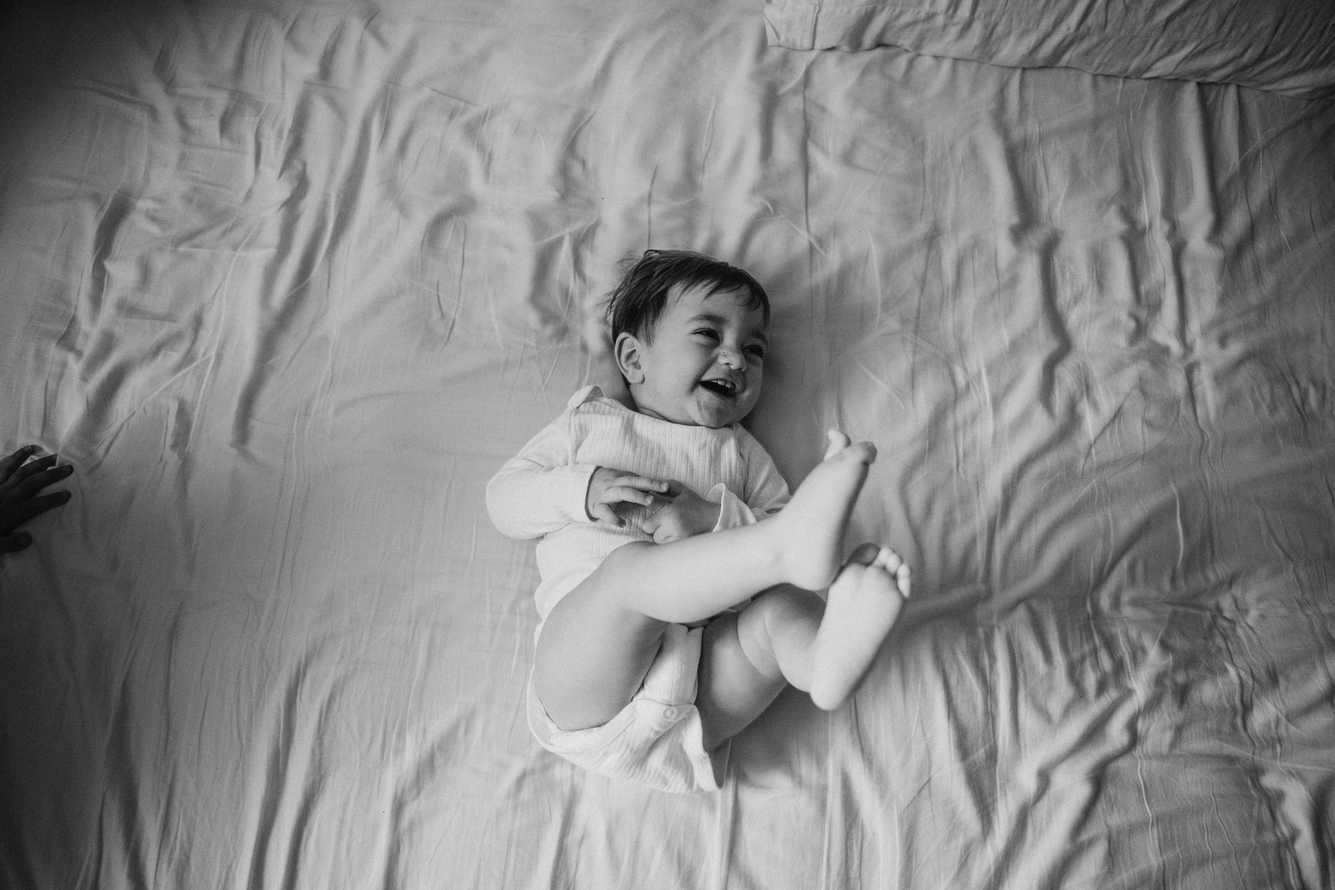
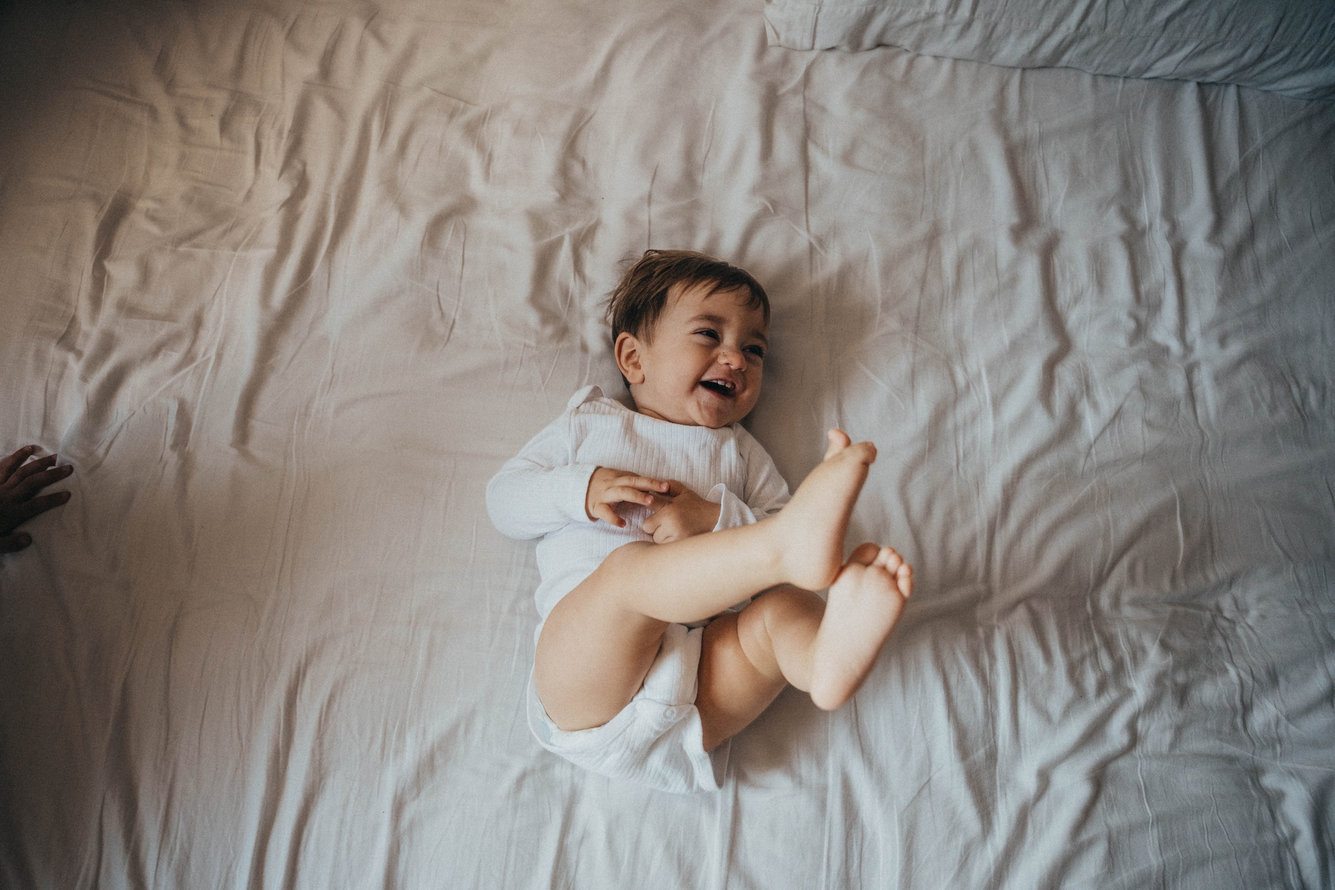
Pablo & Marco: el bebé en la cama, a color

diff --git a/en/film/homeless-world-cup-2019-uefa-s-respect-day/index.html b/en/film/homeless-world-cup-2019-uefa-s-respect-day/index.html
@@ -9,7 +9,7 @@
 
 <link rel="alternate" hreflang="es" href="/es/film/homeless-world-cup-2019-uefa-s-respect-day/">
 <link rel="preload" href="/assets/fonts/inter-tight-400.woff2" as="font" type="font/woff2" crossorigin>
-<link rel="stylesheet" href="/assets/css/style.css?v=1794506660392">
+<link rel="stylesheet" href="/assets/css/style.css?v=1794516519669">
 <script>try{var r=document.referrer,m=r&&r.indexOf(location.origin)===0?r.slice(location.origin.length):"";if(/^\/(es|en)\/(film|photo)\/[^\/]+\//.test(m))document.documentElement.classList.add("brand-done")}catch(e){}</script>
 </head>
 <body class="has-compact">

diff --git a/es/film/homeless-world-cup-2019-uefa-s-respect-day/index.html b/es/film/homeless-world-cup-2019-uefa-s-respect-day/index.html
@@ -9,7 +9,7 @@
 
 <link rel="alternate" hreflang="en" href="/en/film/homeless-world-cup-2019-uefa-s-respect-day/">
 <link rel="preload" href="/assets/fonts/inter-tight-400.woff2" as="font" type="font/woff2" crossorigin>
-<link rel="stylesheet" href="/assets/css/style.css?v=1794506660392">
+<link rel="stylesheet" href="/assets/css/style.css?v=1794516519669">
 <script>try{var r=document.referrer,m=r&&r.indexOf(location.origin)===0?r.slice(location.origin.length):"";if(/^\/(es|en)\/(film|photo)\/[^\/]+\//.test(m))document.documentElement.classList.add("brand-done")}catch(e){}</script>
 </head>
 <body class="has-compact">

diff --git a/en/film/homeless-world-cup-2017-dulce-s-story/index.html b/en/film/homeless-world-cup-2017-dulce-s-story/index.html
@@ -9,7 +9,7 @@
 
 <link rel="alternate" hreflang="es" href="/es/film/homeless-world-cup-2017-dulce-s-story/">
 <link rel="preload" href="/assets/fonts/inter-tight-400.woff2" as="font" type="font/woff2" crossorigin>
-<link rel="stylesheet" href="/assets/css/style.css?v=1794506660392">
+<link rel="stylesheet" href="/assets/css/style.css?v=1794516519669">
 <script>try{var r=document.referrer,m=r&&r.indexOf(location.origin)===0?r.slice(location.origin.length):"";if(/^\/(es|en)\/(film|photo)\/[^\/]+\//.test(m))document.documentElement.classList.add("brand-done")}catch(e){}</script>
 </head>
 <body class="has-compact">

diff --git a/es/film/homeless-world-cup-2017-dulce-s-story/index.html b/es/film/homeless-world-cup-2017-dulce-s-story/index.html
@@ -9,7 +9,7 @@
 
 <link rel="alternate" hreflang="en" href="/en/film/homeless-world-cup-2017-dulce-s-story/">
 <link rel="preload" href="/assets/fonts/inter-tight-400.woff2" as="font" type="font/woff2" crossorigin>
-<link rel="stylesheet" href="/assets/css/style.css?v=1794506660392">
+<link rel="stylesheet" href="/assets/css/style.css?v=1794516519669">
 <script>try{var r=document.referrer,m=r&&r.indexOf(location.origin)===0?r.slice(location.origin.length):"";if(/^\/(es|en)\/(film|photo)\/[^\/]+\//.test(m))document.documentElement.classList.add("brand-done")}catch(e){}</script>
 </head>
 <body class="has-compact">

diff --git a/en/film/street-soccer-india-s-experience/index.html b/en/film/street-soccer-india-s-experience/index.html
@@ -9,7 +9,7 @@
 
 <link rel="alternate" hreflang="es" href="/es/film/street-soccer-india-s-experience/">
 <link rel="preload" href="/assets/fonts/inter-tight-400.woff2" as="font" type="font/woff2" crossorigin>
-<link rel="stylesheet" href="/assets/css/style.css?v=1794506660392">
+<link rel="stylesheet" href="/assets/css/style.css?v=1794516519669">
 <script>try{var r=document.referrer,m=r&&r.indexOf(location.origin)===0?r.slice(location.origin.length):"";if(/^\/(es|en)\/(film|photo)\/[^\/]+\//.test(m))document.documentElement.classList.add("brand-done")}catch(e){}</script>
 </head>
 <body class="has-compact">

diff --git a/es/film/street-soccer-india-s-experience/index.html b/es/film/street-soccer-india-s-experience/index.html
@@ -9,7 +9,7 @@
 
 <link rel="alternate" hreflang="en" href="/en/film/street-soccer-india-s-experience/">
 <link rel="preload" href="/assets/fonts/inter-tight-400.woff2" as="font" type="font/woff2" crossorigin>
-<link rel="stylesheet" href="/assets/css/style.css?v=1794506660392">
+<link rel="stylesheet" href="/assets/css/style.css?v=1794516519669">
 <script>try{var r=document.referrer,m=r&&r.indexOf(location.origin)===0?r.slice(location.origin.length):"";if(/^\/(es|en)\/(film|photo)\/[^\/]+\//.test(m))document.documentElement.classList.add("brand-done")}catch(e){}</script>
 </head>
 <body class="has-compact">

diff --git a/en/film/historias-de-amistad-trailer/index.html b/en/film/historias-de-amistad-trailer/index.html
@@ -9,7 +9,7 @@
 
 <link rel="alternate" hreflang="es" href="/es/film/historias-de-amistad-trailer/">
 <link rel="preload" href="/assets/fonts/inter-tight-400.woff2" as="font" type="font/woff2" crossorigin>
-<link rel="stylesheet" href="/assets/css/style.css?v=1794506660392">
+<link rel="stylesheet" href="/assets/css/style.css?v=1794516519669">
 <script>try{var r=document.referrer,m=r&&r.indexOf(location.origin)===0?r.slice(location.origin.length):"";if(/^\/(es|en)\/(film|photo)\/[^\/]+\//.test(m))document.documentElement.classList.add("brand-done")}catch(e){}</script>
 </head>
 <body class="has-compact">

diff --git a/es/film/historias-de-amistad-trailer/index.html b/es/film/historias-de-amistad-trailer/index.html
@@ -9,7 +9,7 @@
 
 <link rel="alternate" hreflang="en" href="/en/film/historias-de-amistad-trailer/">
 <link rel="preload" href="/assets/fonts/inter-tight-400.woff2" as="font" type="font/woff2" crossorigin>
-<link rel="stylesheet" href="/assets/css/style.css?v=1794506660392">
+<link rel="stylesheet" href="/assets/css/style.css?v=1794516519669">
 <script>try{var r=document.referrer,m=r&&r.indexOf(location.origin)===0?r.slice(location.origin.length):"";if(/^\/(es|en)\/(film|photo)\/[^\/]+\//.test(m))document.documentElement.classList.add("brand-done")}catch(e){}</script>
 </head>
 <body class="has-compact">

diff --git a/en/film/street-soccer-andy-s-story/index.html b/en/film/street-soccer-andy-s-story/index.html
@@ -9,7 +9,7 @@
 
 <link rel="alternate" hreflang="es" href="/es/film/street-soccer-andy-s-story/">
 <link rel="preload" href="/assets/fonts/inter-tight-400.woff2" as="font" type="font/woff2" crossorigin>
-<link rel="stylesheet" href="/assets/css/style.css?v=1794506660392">
+<link rel="stylesheet" href="/assets/css/style.css?v=1794516519669">
 <script>try{var r=document.referrer,m=r&&r.indexOf(location.origin)===0?r.slice(location.origin.length):"";if(/^\/(es|en)\/(film|photo)\/[^\/]+\//.test(m))document.documentElement.classList.add("brand-done")}catch(e){}</script>
 </head>
 <body class="has-compact">

diff --git a/es/film/street-soccer-andy-s-story/index.html b/es/film/street-soccer-andy-s-story/index.html
@@ -9,7 +9,7 @@
 
 <link rel="alternate" hreflang="en" href="/en/film/street-soccer-andy-s-story/">
 <link rel="preload" href="/assets/fonts/inter-tight-400.woff2" as="font" type="font/woff2" crossorigin>
-<link rel="stylesheet" href="/assets/css/style.css?v=1794506660392">
+<link rel="stylesheet" href="/assets/css/style.css?v=1794516519669">
 <script>try{var r=document.referrer,m=r&&r.indexOf(location.origin)===0?r.slice(location.origin.length):"";if(/^\/(es|en)\/(film|photo)\/[^\/]+\//.test(m))document.documentElement.classList.add("brand-done")}catch(e){}</script>
 </head>
 <body class="has-compact">

diff --git a/en/film/srna-francisco-s-story/index.html b/en/film/srna-francisco-s-story/index.html
@@ -9,7 +9,7 @@
 
 <link rel="alternate" hreflang="es" href="/es/film/srna-francisco-s-story/">
 <link rel="preload" href="/assets/fonts/inter-tight-400.woff2" as="font" type="font/woff2" crossorigin>
-<link rel="stylesheet" href="/assets/css/style.css?v=1794506660392">
+<link rel="stylesheet" href="/assets/css/style.css?v=1794516519669">
 <script>try{var r=document.referrer,m=r&&r.indexOf(location.origin)===0?r.slice(location.origin.length):"";if(/^\/(es|en)\/(film|photo)\/[^\/]+\//.test(m))document.documentElement.classList.add("brand-done")}catch(e){}</script>
 </head>
 <body class="has-compact">

diff --git a/es/film/srna-francisco-s-story/index.html b/es/film/srna-francisco-s-story/index.html
@@ -9,7 +9,7 @@
 
 <link rel="alternate" hreflang="en" href="/en/film/srna-francisco-s-story/">
 <link rel="preload" href="/assets/fonts/inter-tight-400.woff2" as="font" type="font/woff2" crossorigin>
-<link rel="stylesheet" href="/assets/css/style.css?v=1794506660392">
+<link rel="stylesheet" href="/assets/css/style.css?v=1794516519669">
 <script>try{var r=document.referrer,m=r&&r.indexOf(location.origin)===0?r.slice(location.origin.length):"";if(/^\/(es|en)\/(film|photo)\/[^\/]+\//.test(m))document.documentElement.classList.add("brand-done")}catch(e){}</script>
 </head>
 <body class="has-compact">
